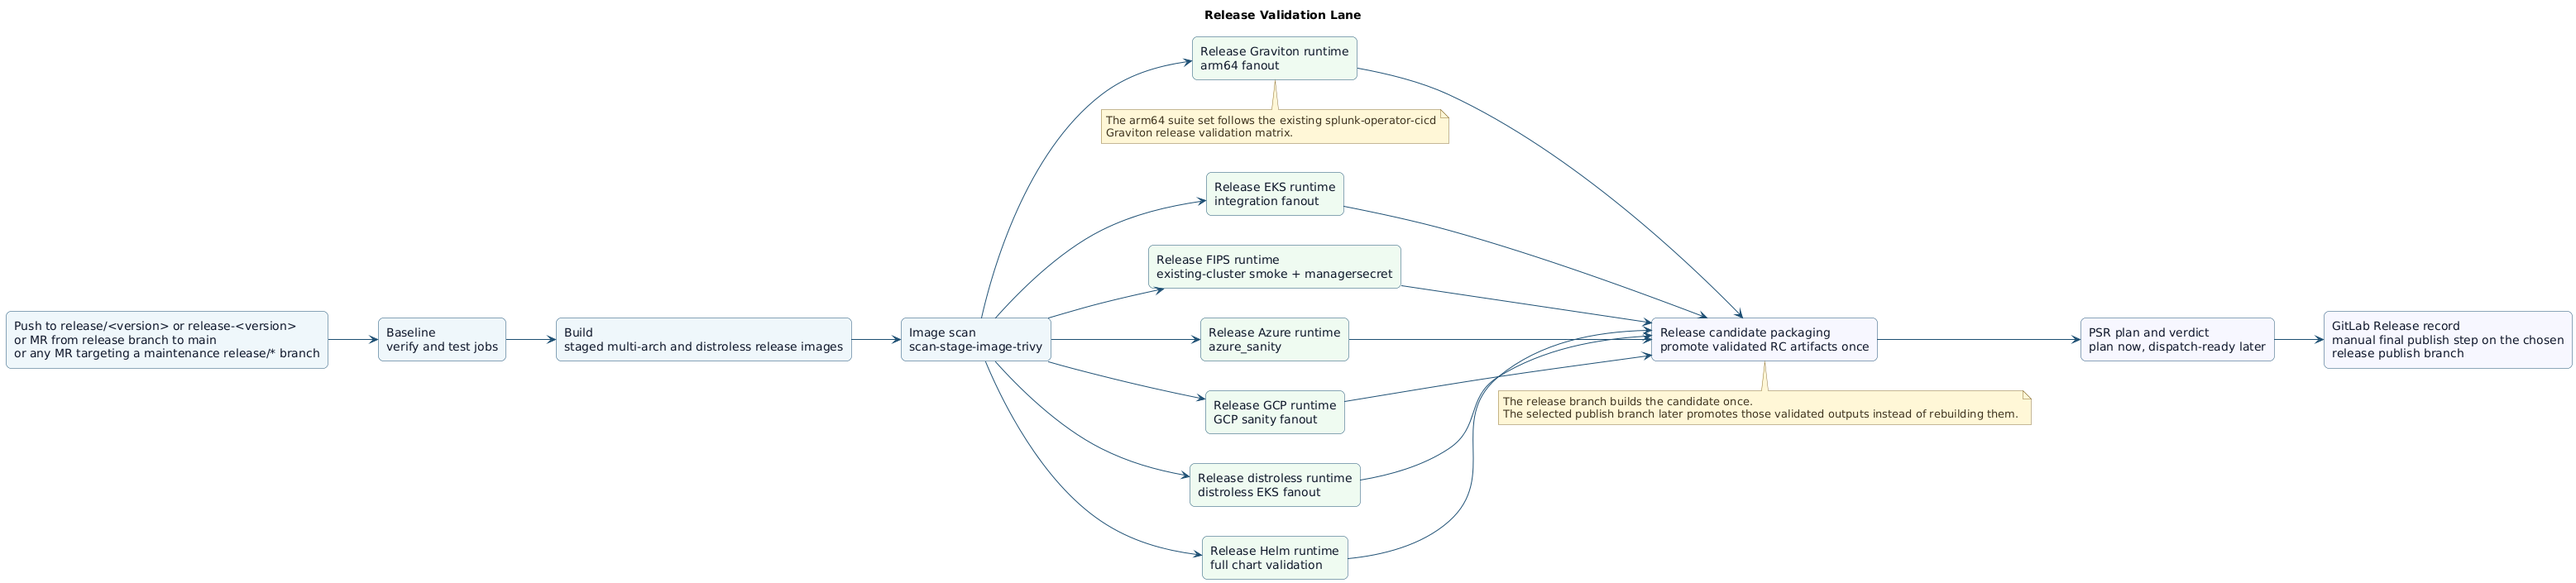
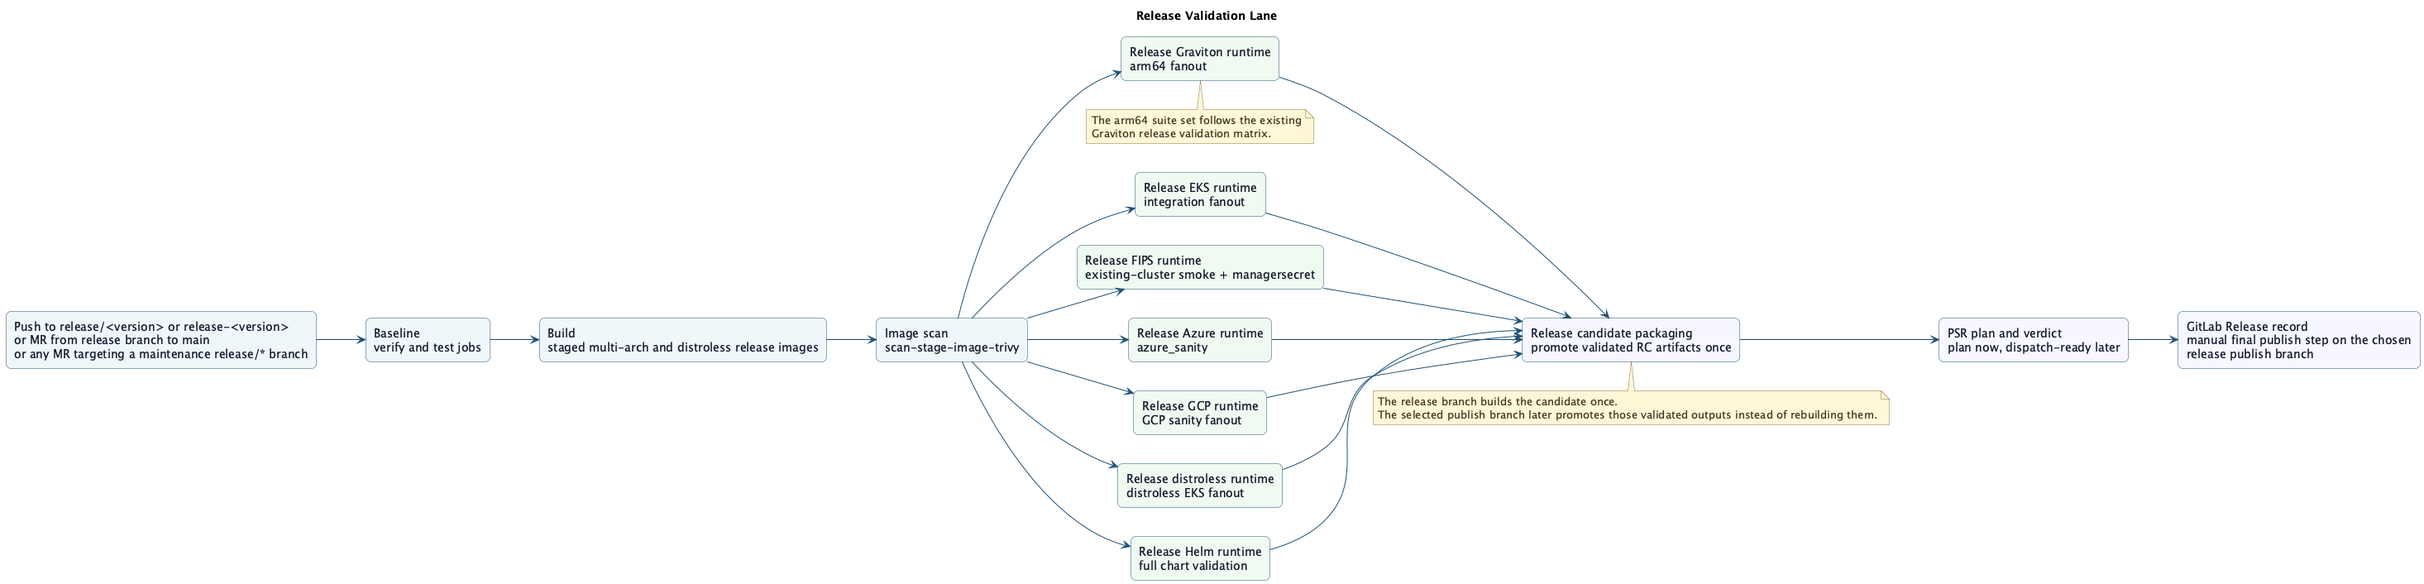
CSPL-4812: Remove references to splunk-operator-cicd

diff --git a/gitlab-ci/README.md b/gitlab-ci/README.md
@@ -143,7 +143,7 @@ What the qualification automation does:
 - runs Azure validation against the released operator path
 - runs the GCP validation suite set against the released operator path
 - runs distroless runtime validation against the released distroless image
-- runs the Graviton or arm64 runtime suite set from the existing `splunk-operator-cicd` arm64 matrix against the released multi-arch operator image when `PIPELINE_ENABLE_GRAVITON=true` or `PIPELINE_GRAVITON_ENTERPRISE_IMAGE` is configured
+- runs the Graviton or arm64 runtime suite set from the existing arm64 matrix against the released multi-arch operator image when `PIPELINE_ENABLE_GRAVITON=true` or `PIPELINE_GRAVITON_ENTERPRISE_IMAGE` is configured
 - runs Helm validation against the released chart path
 - writes the qualification manifest, report, gate result, and compatibility publish plan
 
@@ -234,7 +234,7 @@ What the release validation automation does:
 - runs Azure validation against the staged release candidate
 - runs the GCP validation suite set against the staged release candidate
 - runs distroless runtime validation against the staged distroless candidate image
-- runs the Graviton or arm64 runtime suite set from the existing `splunk-operator-cicd` arm64 matrix against the staged multi-arch candidate image when `PIPELINE_ENABLE_GRAVITON=true` or `PIPELINE_GRAVITON_ENTERPRISE_IMAGE` is configured
+- runs the Graviton or arm64 runtime suite set from the existing arm64 matrix against the staged multi-arch candidate image when `PIPELINE_ENABLE_GRAVITON=true` or `PIPELINE_GRAVITON_ENTERPRISE_IMAGE` is configured
 - runs the release Helm validation job
 - packages the release-candidate artifacts only after validation
 - records the PSR qualification plan only; it does not dispatch PSR automatically
